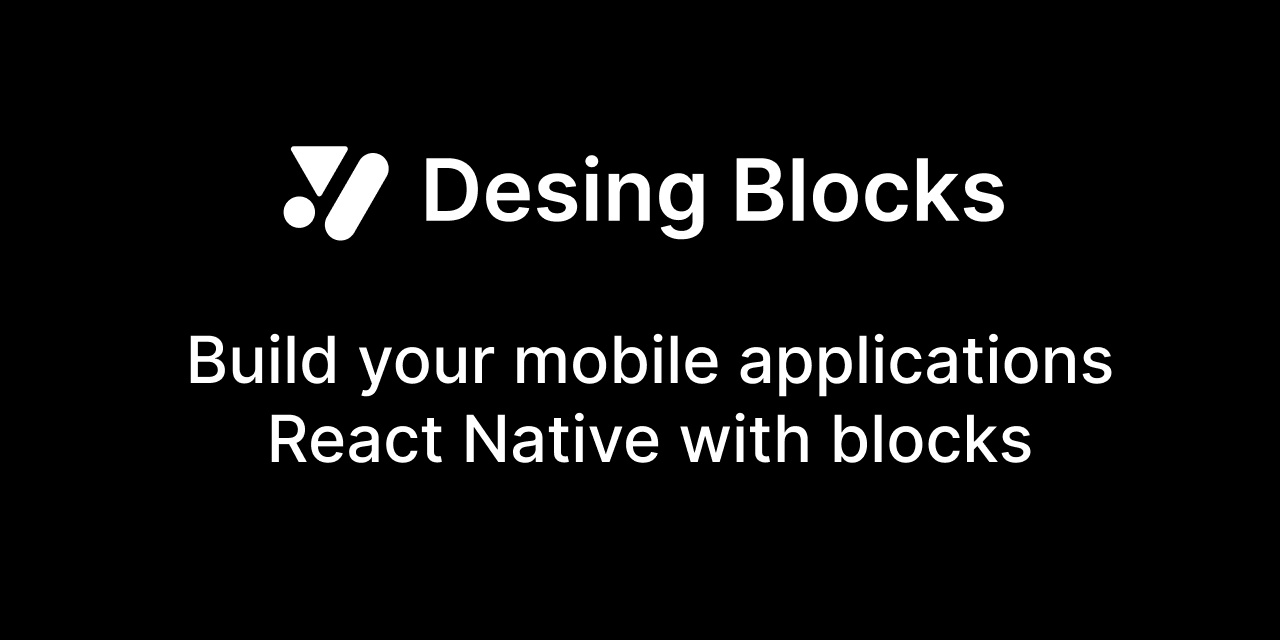
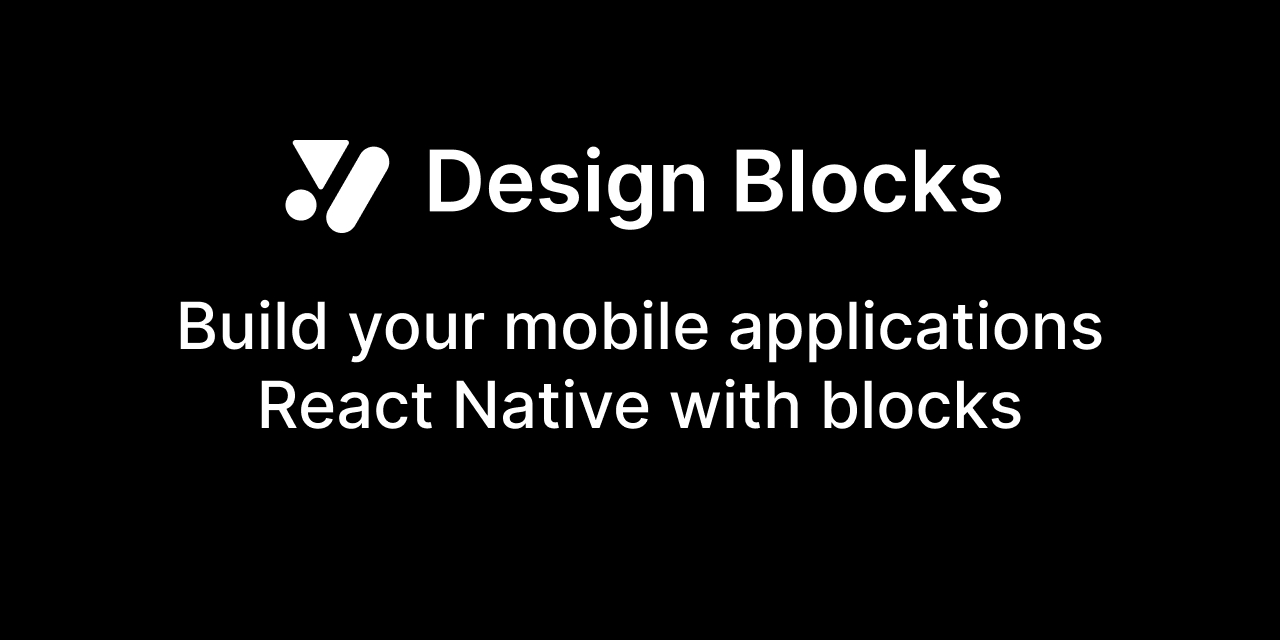
fix: responsive

Changed region(s): [[0.125, 0.4688, 0.875, 0.7188], [0.2188, 0.2188, 0.7812, 0.375]]

diff --git a/src/@design-system/DB.tsx b/src/@design-system/DB.tsx
@@ -2,8 +2,8 @@ import * as React from "react";
 
 import type { IconProps } from "./icons/types";
 
-function IconDb({ color = "#ffff", size = 2960, ...props }: IconProps) {
-  const originalWidth = 2960;
+function IconDb({ color = "#ffff", size = 2978, ...props }: IconProps) {
+  const originalWidth = 2978;
   const originalHeight = 502;
   const aspectRatio = originalHeight / originalWidth;
 
@@ -14,13 +14,13 @@ function IconDb({ color = "#ffff", size = 2960, ...props }: IconProps) {
     <svg
       width={width}
       height={height}
-      viewBox="0 0 2960 502"
+      viewBox="0 0 2978 502"
       fill="none"
       xmlns="http://www.w3.org/2000/svg"
       {...props}
     >
       <path
-        d="M57.987 111.568c-4.284-7.421 1.071-16.696 9.64-16.696h209.655c8.568 0 13.923 9.275 9.639 16.696L182.094 293.134c-4.285 7.421-14.995 7.421-19.279 0L57.987 111.568zM154.784 363.116c0 35.347-28.654 64.001-64 64.001-35.347 0-64.001-28.654-64.001-64.001 0-35.346 28.654-64 64-64 35.347 0 64.001 28.654 64.001 64zM226.905 470c-30.611-17.673-41.099-56.816-23.425-87.427l131.855-228.38c17.674-30.611 56.816-41.099 87.427-23.426 30.611 17.673 41.099 56.815 23.425 87.426L314.332 446.574c-17.674 30.611-56.816 41.099-87.427 23.426zM2955.78 257.553l-41.01 4.474c-1.16-4.143-3.19-8.037-6.09-11.683-2.82-3.646-6.63-6.588-11.44-8.825-4.8-2.237-10.68-3.356-17.64-3.356-9.37 0-17.24 2.03-23.62 6.091-6.3 4.06-9.4 9.321-9.32 15.784-.08 5.552 1.95 10.068 6.09 13.548 4.22 3.48 11.18 6.339 20.88 8.576l32.56 6.96c18.07 3.895 31.49 10.068 40.27 18.519 8.87 8.452 13.34 19.514 13.43 33.186-.09 12.014-3.61 22.62-10.57 31.818-6.88 9.114-16.45 16.24-28.71 21.378-12.26 5.137-26.35 7.706-42.26 7.706-23.36 0-42.17-4.889-56.43-14.667-14.25-9.86-22.74-23.573-25.47-41.139l43.87-4.226c1.99 8.617 6.21 15.122 12.68 19.513 6.46 4.392 14.87 6.588 25.23 6.588 10.69 0 19.26-2.196 25.73-6.588 6.54-4.391 9.81-9.819 9.81-16.282 0-5.469-2.11-9.984-6.33-13.547-4.15-3.563-10.61-6.298-19.39-8.203l-32.57-6.836c-18.31-3.812-31.86-10.234-40.64-19.265-8.78-9.115-13.13-20.632-13.05-34.553-.08-11.766 3.11-21.958 9.57-30.575 6.55-8.7 15.62-15.412 27.22-20.135 11.68-4.806 25.15-7.209 40.39-7.209 22.38 0 39.98 4.765 52.83 14.293 12.92 9.529 20.92 22.414 23.98 38.655zM2646.65 338.092l-.13-54.314h7.21l68.61-76.687h52.57l-84.39 93.963h-9.32l-34.55 37.038zM2605.63 398V143.455h44.99V398h-44.99zm119.81 0l-62.14-86.879 30.33-31.693L2779.26 398h-53.82zM2486.9 401.729c-19.06 0-35.42-4.185-49.09-12.554-13.59-8.368-24.07-19.927-31.45-34.676-7.29-14.832-10.94-31.901-10.94-51.208 0-19.389 3.73-36.5 11.19-51.331 7.46-14.915 17.98-26.516 31.57-34.802 13.67-8.368 29.83-12.553 48.47-12.553 15.5 0 29.21 2.859 41.14 8.576 12.02 5.635 21.59 13.631 28.71 23.988 7.13 10.275 11.19 22.289 12.18 36.044h-43c-1.74-9.197-5.88-16.862-12.43-22.994-6.46-6.214-15.12-9.321-25.98-9.321-9.19 0-17.27 2.485-24.23 7.457-6.96 4.889-12.39 11.932-16.28 21.129-3.82 9.198-5.72 20.218-5.72 33.061 0 13.009 1.9 24.196 5.72 33.559 3.81 9.28 9.15 16.447 16.03 21.502 6.96 4.971 15.12 7.457 24.48 7.457 6.63 0 12.56-1.243 17.78-3.729 5.3-2.568 9.73-6.255 13.3-11.061 3.56-4.806 6-10.648 7.33-17.525h43c-1.07 13.506-5.05 25.479-11.93 35.92-6.87 10.357-16.24 18.477-28.09 24.36-11.85 5.801-25.77 8.701-41.76 8.701zM2273.96 401.729c-18.64 0-34.8-4.102-48.47-12.305-13.67-8.203-24.28-19.679-31.82-34.428-7.46-14.749-11.19-31.984-11.19-51.705 0-19.72 3.73-36.997 11.19-51.829 7.54-14.832 18.15-26.349 31.82-34.552 13.67-8.203 29.83-12.305 48.47-12.305 18.65 0 34.8 4.102 48.48 12.305 13.67 8.203 24.23 19.72 31.69 34.552 7.54 14.832 11.31 32.109 11.31 51.829 0 19.721-3.77 36.956-11.31 51.705-7.46 14.749-18.02 26.225-31.69 34.428-13.68 8.203-29.83 12.305-48.48 12.305zm.25-36.044c10.11 0 18.56-2.776 25.36-8.328 6.79-5.634 11.84-13.174 15.16-22.621 3.4-9.446 5.1-19.969 5.1-31.569 0-11.683-1.7-22.248-5.1-31.694-3.32-9.529-8.37-17.111-15.16-22.745-6.8-5.635-15.25-8.452-25.36-8.452-10.36 0-18.97 2.817-25.85 8.452-6.8 5.634-11.89 13.216-15.29 22.745-3.31 9.446-4.97 20.011-4.97 31.694 0 11.6 1.66 22.123 4.97 31.569 3.4 9.447 8.49 16.987 15.29 22.621 6.88 5.552 15.49 8.328 25.85 8.328zM2144.42 143.455V398h-44.99V143.455h44.99zM1871.39 398V143.455h97.44c18.4 0 33.68 2.9 45.86 8.7 12.27 5.717 21.42 13.547 27.47 23.491 6.13 9.943 9.2 21.212 9.2 33.806 0 10.358-1.99 19.224-5.97 26.598-3.97 7.292-9.32 13.217-16.03 17.774-6.71 4.557-14.21 7.83-22.5 9.819v2.486c9.04.497 17.69 3.273 25.98 8.327 8.37 4.972 15.2 12.015 20.51 21.129 5.3 9.115 7.95 20.135 7.95 33.061 0 13.175-3.19 25.024-9.57 35.547-6.38 10.441-15.99 18.685-28.83 24.734-12.85 6.049-29 9.073-48.48 9.073h-103.03zm46.11-38.53h49.59c16.74 0 28.79-3.19 36.17-9.57 7.46-6.463 11.19-14.749 11.19-24.858 0-7.54-1.87-14.335-5.6-20.384-3.73-6.131-9.03-10.937-15.91-14.417-6.87-3.563-15.08-5.345-24.61-5.345h-50.83v74.574zm0-107.759h45.61c7.96 0 15.13-1.45 21.51-4.35 6.38-2.983 11.39-7.168 15.03-12.553 3.73-5.469 5.6-11.932 5.6-19.39 0-9.86-3.48-17.98-10.44-24.36-6.88-6.381-17.11-9.571-30.7-9.571h-46.61v70.224zM1646.86 473.568c-16.16 0-30.04-2.196-41.64-6.587-11.6-4.309-20.92-10.109-27.96-17.401-7.05-7.291-11.94-15.37-14.67-24.236l40.52-9.819c1.82 3.729 4.47 7.416 7.95 11.062 3.48 3.728 8.16 6.794 14.05 9.197 5.96 2.486 13.46 3.729 22.49 3.729 12.76 0 23.33-3.107 31.7-9.322 8.37-6.132 12.55-16.24 12.55-30.327v-36.168h-2.24c-2.32 4.64-5.71 9.405-10.19 14.293-4.39 4.889-10.23 8.991-17.52 12.305-7.21 3.314-16.28 4.972-27.22 4.972-14.67 0-27.97-3.439-39.9-10.316-11.85-6.961-21.29-17.318-28.34-31.073-6.96-13.837-10.44-31.155-10.44-51.953 0-20.964 3.48-38.654 10.44-53.072 7.05-14.5 16.53-25.479 28.47-32.937 11.93-7.54 25.23-11.31 39.89-11.31 11.19 0 20.39 1.906 27.59 5.717 7.3 3.729 13.1 8.245 17.4 13.548 4.31 5.22 7.59 10.15 9.82 14.79h2.49v-31.569h44.37v194.016c0 16.324-3.89 29.83-11.68 40.519-7.79 10.689-18.44 18.685-31.94 23.988-13.51 5.303-28.84 7.954-45.99 7.954zm.37-113.601c9.53 0 17.65-2.32 24.36-6.96 6.71-4.64 11.81-11.31 15.29-20.011 3.48-8.7 5.22-19.14 5.22-31.321 0-12.014-1.74-22.537-5.22-31.569-3.4-9.032-8.45-16.034-15.16-21.005-6.63-5.055-14.79-7.582-24.49-7.582-10.02 0-18.39 2.61-25.11 7.83-6.71 5.221-11.76 12.388-15.16 21.503-3.4 9.031-5.09 19.306-5.09 30.823 0 11.684 1.69 21.917 5.09 30.7 3.48 8.7 8.58 15.495 15.29 20.383 6.79 4.806 15.12 7.209 24.98 7.209zM1395.54 286.139V398h-44.99V207.091h43.01v32.44h2.23c4.39-10.689 11.4-19.183 21.01-25.48 9.69-6.297 21.67-9.446 35.92-9.446 13.17 0 24.65 2.817 34.43 8.452 9.86 5.634 17.48 13.796 22.87 24.485 5.46 10.689 8.16 23.656 8.07 38.903V398h-44.99V283.405c0-12.761-3.31-22.745-9.94-29.954-6.55-7.209-15.62-10.813-27.22-10.813-7.87 0-14.88 1.74-21.01 5.22-6.05 3.397-10.81 8.327-14.29 14.79-3.4 6.463-5.1 14.294-5.1 23.491zM1259.29 398V207.091h44.99V398h-44.99zm22.62-218.004c-7.12 0-13.26-2.362-18.39-7.085-5.14-4.806-7.71-10.564-7.71-17.276 0-6.795 2.57-12.553 7.71-17.276 5.13-4.806 11.27-7.209 18.39-7.209 7.21 0 13.34 2.403 18.4 7.209 5.13 4.723 7.7 10.481 7.7 17.276 0 6.712-2.57 12.47-7.7 17.276-5.06 4.723-11.19 7.085-18.4 7.085zM1218.09 257.553l-41.02 4.474c-1.16-4.143-3.19-8.037-6.09-11.683-2.81-3.646-6.63-6.588-11.43-8.825-4.81-2.237-10.69-3.356-17.65-3.356-9.36 0-17.24 2.03-23.62 6.091-6.29 4.06-9.4 9.321-9.32 15.784-.08 5.552 1.95 10.068 6.09 13.548 4.23 3.48 11.19 6.339 20.88 8.576l32.57 6.96c18.06 3.895 31.48 10.068 40.27 18.519 8.86 8.452 13.34 19.514 13.42 33.186-.08 12.014-3.6 22.62-10.56 31.818-6.88 9.114-16.45 16.24-28.71 21.378-12.27 5.137-26.35 7.706-42.26 7.706-23.37 0-42.18-4.889-56.43-14.667-14.25-9.86-22.75-23.573-25.48-41.139l43.87-4.226c1.99 8.617 6.22 15.122 12.68 19.513 6.46 4.392 14.88 6.588 25.23 6.588 10.69 0 19.27-2.196 25.73-6.588 6.55-4.391 9.82-9.819 9.82-16.282 0-5.469-2.11-9.984-6.34-13.547-4.14-3.563-10.61-6.298-19.39-8.203l-32.56-6.836c-18.31-3.812-31.86-10.234-40.65-19.265-8.78-9.115-13.13-20.632-13.05-34.553-.08-11.766 3.11-21.958 9.57-30.575 6.55-8.7 15.62-15.412 27.22-20.135 11.69-4.806 25.15-7.209 40.4-7.209 22.37 0 39.98 4.765 52.82 14.293 12.93 9.529 20.92 22.414 23.99 38.655zM944.248 401.729c-19.141 0-35.671-3.978-49.592-11.932-13.837-8.038-24.485-19.389-31.942-34.056-7.457-14.749-11.186-32.108-11.186-52.077 0-19.638 3.729-36.873 11.186-51.704 7.54-14.915 18.063-26.516 31.57-34.802 13.506-8.368 29.373-12.553 47.603-12.553 11.766 0 22.869 1.906 33.309 5.717 10.523 3.729 19.804 9.529 27.844 17.401 8.12 7.872 14.5 17.898 19.14 30.078 4.64 12.098 6.96 26.515 6.96 43.253v13.796H872.657v-30.327h113.352c-.082-8.617-1.947-16.282-5.593-22.993-3.645-6.795-8.741-12.139-15.287-16.034-6.463-3.894-14.004-5.841-22.621-5.841-9.197 0-17.276 2.237-24.237 6.711-6.96 4.392-12.387 10.192-16.281 17.401-3.812 7.126-5.759 14.956-5.842 23.491v26.474c0 11.103 2.03 20.632 6.09 28.586 4.06 7.872 9.736 13.921 17.028 18.146 7.291 4.143 15.826 6.215 25.603 6.215 6.546 0 12.471-.911 17.774-2.734 5.303-1.906 9.902-4.682 13.796-8.328 3.894-3.646 6.836-8.162 8.825-13.547l42.006 4.723c-2.65 11.103-7.7 20.797-15.16 29.083-7.37 8.204-16.82 14.584-28.338 19.141-11.517 4.474-24.692 6.712-39.524 6.712zM694.364 398h-86.258V143.455h87.998c25.272 0 46.981 5.095 65.127 15.287 18.23 10.109 32.233 24.651 42.01 43.626 9.778 18.975 14.667 41.678 14.667 68.111 0 26.515-4.931 49.301-14.791 68.359-9.777 19.058-23.905 33.683-42.383 43.874C742.339 392.904 720.216 398 694.364 398zm-40.146-39.897h37.908c17.732 0 32.523-3.231 44.372-9.695 11.849-6.545 20.756-16.282 26.722-29.208 5.966-13.009 8.949-29.249 8.949-48.721 0-19.472-2.983-35.63-8.949-48.473-5.966-12.926-14.79-22.58-26.474-28.96-11.6-6.463-26.018-9.694-43.252-9.694h-39.276v174.751z"
+        d="M57.987 111.568c-4.284-7.421 1.071-16.696 9.64-16.696h209.655c8.568 0 13.923 9.275 9.639 16.696L182.094 293.134c-4.285 7.421-14.995 7.421-19.279 0L57.987 111.568zM154.784 363.116c0 35.347-28.654 64.001-64 64.001-35.347 0-64.001-28.654-64.001-64.001 0-35.346 28.654-64 64-64 35.347 0 64.001 28.654 64.001 64zM226.905 470c-30.611-17.673-41.099-56.816-23.425-87.427l131.855-228.38c17.674-30.611 56.816-41.099 87.427-23.426 30.611 17.673 41.099 56.815 23.425 87.426L314.332 446.574c-17.674 30.611-56.816 41.099-87.427 23.426zM2973.67 248.617l-41.09 4.482c-1.16-4.15-3.19-8.051-6.1-11.703-2.82-3.652-6.64-6.598-11.45-8.839-4.82-2.241-10.71-3.362-17.68-3.362-9.38 0-17.27 2.034-23.66 6.101-6.31 4.067-9.42 9.337-9.33 15.811-.09 5.562 1.95 10.085 6.1 13.571 4.23 3.486 11.2 6.35 20.91 8.591l32.62 6.972c18.1 3.901 31.54 10.084 40.34 18.55 8.88 8.466 13.36 19.547 13.45 33.242-.09 12.035-3.62 22.659-10.59 31.872-6.89 9.13-16.47 16.268-28.76 21.414-12.28 5.146-26.39 7.72-42.33 7.72-23.4 0-42.24-4.898-56.52-14.692-14.28-9.877-22.78-23.613-25.52-41.209l43.95-4.233c1.99 8.632 6.22 15.147 12.69 19.546 6.48 4.399 14.9 6.599 25.28 6.599 10.71 0 19.3-2.2 25.77-6.599 6.56-4.399 9.84-9.835 9.84-16.309 0-5.478-2.12-10.002-6.35-13.571-4.15-3.569-10.63-6.308-19.43-8.217l-32.62-6.848c-18.34-3.818-31.91-10.25-40.71-19.297-8.8-9.13-13.15-20.667-13.07-34.611-.08-11.787 3.11-21.996 9.59-30.628 6.55-8.715 15.64-15.438 27.26-20.169 11.71-4.814 25.19-7.221 40.47-7.221 22.41 0 40.04 4.773 52.91 14.318 12.95 9.545 20.96 22.451 24.03 38.719zM2664 329.294l-.12-54.407h7.22l68.72-76.817h52.67l-84.54 94.123h-9.34L2664 329.294zm-41.08 60.009V134.326h45.07v254.977h-45.07zm120.02 0l-62.26-87.026 30.38-31.747 85.78 118.773h-53.9zM2503.99 393.039c-19.09 0-35.49-4.192-49.18-12.575-13.61-8.383-24.11-19.962-31.5-34.736-7.3-14.857-10.96-31.955-10.96-51.294 0-19.422 3.74-36.562 11.21-51.419 7.47-14.94 18.01-26.56 31.62-34.86 13.7-8.383 29.88-12.575 48.56-12.575 15.52 0 29.26 2.864 41.21 8.591 12.03 5.644 21.62 13.653 28.76 24.028 7.14 10.292 11.2 22.327 12.2 36.106h-43.08c-1.74-9.213-5.89-16.891-12.45-23.033-6.47-6.225-15.15-9.338-26.02-9.338-9.21 0-17.31 2.49-24.28 7.47-6.97 4.897-12.41 11.952-16.31 21.166-3.82 9.213-5.72 20.252-5.72 33.117 0 13.031 1.9 24.236 5.72 33.615 3.82 9.296 9.17 16.476 16.06 21.539 6.98 4.98 15.15 7.47 24.53 7.47 6.64 0 12.57-1.245 17.8-3.735 5.32-2.573 9.76-6.267 13.33-11.081 3.56-4.814 6.01-10.665 7.34-17.554h43.08c-1.08 13.529-5.06 25.522-11.95 35.98-6.89 10.375-16.27 18.509-28.14 24.402-11.87 5.81-25.81 8.716-41.83 8.716zM2290.69 393.039c-18.68 0-34.86-4.109-48.56-12.326-13.69-8.217-24.32-19.713-31.87-34.487-7.47-14.774-11.21-32.038-11.21-51.792 0-19.754 3.74-37.06 11.21-51.917 7.55-14.857 18.18-26.394 31.87-34.611 13.7-8.217 29.88-12.326 48.56-12.326 18.67 0 34.86 4.109 48.55 12.326 13.7 8.217 24.28 19.754 31.75 34.611 7.55 14.857 11.33 32.163 11.33 51.917 0 19.754-3.78 37.018-11.33 51.792-7.47 14.774-18.05 26.27-31.75 34.487-13.69 8.217-29.88 12.326-48.55 12.326zm.24-36.106c10.13 0 18.6-2.78 25.4-8.341 6.81-5.644 11.87-13.197 15.19-22.659 3.4-9.463 5.11-20.004 5.11-31.624 0-11.703-1.71-22.285-5.11-31.747-3.32-9.546-8.38-17.14-15.19-22.784-6.8-5.644-15.27-8.466-25.4-8.466-10.37 0-19 2.822-25.89 8.466-6.81 5.644-11.91 13.238-15.32 22.784-3.32 9.462-4.98 20.044-4.98 31.747 0 11.62 1.66 22.161 4.98 31.624 3.41 9.462 8.51 17.015 15.32 22.659 6.89 5.561 15.52 8.341 25.89 8.341zM2160.92 134.326v254.977h-45.06V134.326h45.06zM1887.43 389.303V134.326h97.61c18.42 0 33.74 2.905 45.94 8.715 12.28 5.727 21.45 13.57 27.51 23.53 6.14 9.96 9.21 21.248 9.21 33.865 0 10.375-1.99 19.256-5.97 26.643-3.99 7.304-9.34 13.238-16.06 17.803-6.73 4.565-14.24 7.844-22.54 9.836v2.49c9.05.498 17.72 3.278 26.02 8.342 8.39 4.98 15.23 12.035 20.55 21.165 5.31 9.13 7.96 20.169 7.96 33.117 0 13.197-3.19 25.066-9.58 35.607-6.39 10.458-16.02 18.717-28.89 24.776-12.86 6.059-29.05 9.088-48.55 9.088h-103.21zm46.19-38.595h49.67c16.77 0 28.85-3.195 36.23-9.586 7.47-6.474 11.21-14.775 11.21-24.901 0-7.553-1.87-14.359-5.6-20.418-3.74-6.142-9.05-10.956-15.94-14.442-6.89-3.569-15.11-5.353-24.65-5.353h-50.92v74.7zm0-107.942h45.69c7.97 0 15.15-1.453 21.54-4.358 6.39-2.988 11.41-7.179 15.06-12.574 3.74-5.478 5.6-11.952 5.6-19.422 0-9.877-3.48-18.012-10.45-24.403-6.89-6.391-17.14-9.586-30.76-9.586h-46.68v70.343zM1629.9 277.253v112.05h-45.07V198.07h43.07v32.495h2.25c4.4-10.707 11.41-19.215 21.04-25.523 9.71-6.308 21.7-9.462 35.98-9.462 13.19 0 24.69 2.822 34.48 8.466 9.88 5.644 17.52 13.82 22.91 24.527 5.48 10.707 8.18 23.696 8.09 38.969v121.761h-45.06V274.514c0-12.782-3.32-22.784-9.96-30.005-6.56-7.221-15.65-10.832-27.27-10.832-7.89 0-14.9 1.743-21.04 5.229-6.06 3.403-10.83 8.342-14.32 14.816-3.4 6.474-5.1 14.318-5.1 23.531zM1448.87 465c-16.18 0-30.09-2.199-41.71-6.599-11.62-4.316-20.95-10.126-28.01-17.43-7.05-7.304-11.95-15.396-14.69-24.277l40.59-9.836c1.82 3.735 4.48 7.429 7.97 11.081 3.48 3.735 8.17 6.806 14.07 9.213 5.97 2.49 13.48 3.735 22.53 3.735 12.78 0 23.36-3.113 31.75-9.338 8.38-6.142 12.57-16.268 12.57-30.378v-36.23h-2.24c-2.32 4.648-5.73 9.421-10.21 14.318-4.4 4.897-10.25 9.005-17.55 12.325-7.22 3.32-16.31 4.98-27.27 4.98-14.69 0-28.01-3.444-39.96-10.333-11.87-6.972-21.33-17.347-28.39-31.125-6.97-13.861-10.46-31.209-10.46-52.042 0-20.999 3.49-38.719 10.46-53.162 7.06-14.525 16.56-25.522 28.51-32.992 11.95-7.553 25.28-11.33 39.97-11.33 11.2 0 20.41 1.909 27.64 5.727 7.3 3.735 13.11 8.259 17.43 13.571 4.31 5.229 7.59 10.167 9.83 14.815h2.49V198.07h44.45v194.346c0 16.351-3.9 29.88-11.71 40.587-7.8 10.707-18.46 18.717-31.99 24.029-13.53 5.312-28.89 7.968-46.07 7.968zm.38-113.794c9.54 0 17.68-2.324 24.4-6.972 6.72-4.648 11.83-11.329 15.31-20.044 3.49-8.716 5.23-19.174 5.23-31.375 0-12.035-1.74-22.576-5.23-31.623-3.4-9.047-8.46-16.061-15.19-21.041-6.64-5.063-14.81-7.594-24.52-7.594-10.05 0-18.43 2.614-25.15 7.843-6.73 5.229-11.79 12.409-15.19 21.539-3.41 9.047-5.11 19.339-5.11 30.876 0 11.703 1.7 21.954 5.11 30.752 3.48 8.715 8.59 15.521 15.31 20.418 6.81 4.814 15.15 7.221 25.03 7.221zM1274.29 389.303V198.07h45.07v191.233h-45.07zm22.66-218.374c-7.14 0-13.28-2.366-18.43-7.097-5.14-4.814-7.71-10.582-7.71-17.305 0-6.806 2.57-12.575 7.71-17.306 5.15-4.814 11.29-7.221 18.43-7.221 7.22 0 13.36 2.407 18.43 7.221 5.14 4.731 7.72 10.5 7.72 17.306 0 6.723-2.58 12.491-7.72 17.305-5.07 4.731-11.21 7.097-18.43 7.097zM1233.02 248.617l-41.09 4.482c-1.16-4.15-3.19-8.051-6.1-11.703-2.82-3.652-6.64-6.598-11.45-8.839-4.81-2.241-10.71-3.362-17.68-3.362-9.38 0-17.26 2.034-23.65 6.101-6.31 4.067-9.43 9.337-9.34 15.811-.09 5.562 1.95 10.085 6.1 13.571 4.23 3.486 11.2 6.35 20.91 8.591l32.62 6.972c18.1 3.901 31.54 10.084 40.34 18.55 8.88 8.466 13.36 19.547 13.45 33.242-.09 12.035-3.61 22.659-10.58 31.872-6.89 9.13-16.48 16.268-28.76 21.414-12.29 5.146-26.4 7.72-42.33 7.72-23.41 0-42.25-4.898-56.53-14.692-14.27-9.877-22.78-23.613-25.52-41.209l43.95-4.233c1.99 8.632 6.22 15.147 12.7 19.546 6.47 4.399 14.9 6.599 25.27 6.599 10.71 0 19.3-2.2 25.77-6.599 6.56-4.399 9.84-9.835 9.84-16.309 0-5.478-2.12-10.002-6.35-13.571-4.15-3.569-10.63-6.308-19.42-8.217l-32.62-6.848c-18.35-3.818-31.92-10.25-40.71-19.297-8.8-9.13-13.16-20.667-13.08-34.611-.08-11.787 3.12-21.996 9.59-30.628 6.56-8.715 15.64-15.438 27.26-20.169 11.71-4.814 25.2-7.221 40.47-7.221 22.41 0 40.05 4.773 52.91 14.318 12.95 9.545 20.96 22.451 24.03 38.719zM958.713 393.039c-19.173 0-35.732-3.985-49.676-11.953-13.861-8.051-24.527-19.422-31.997-34.113-7.47-14.774-11.205-32.163-11.205-52.166 0-19.671 3.735-36.935 11.205-51.792 7.553-14.94 18.094-26.56 31.623-34.86 13.529-8.383 29.424-12.575 47.684-12.575 11.786 0 22.908 1.909 33.366 5.727 10.537 3.735 19.837 9.545 27.887 17.43 8.14 7.885 14.53 17.928 19.17 30.129 4.65 12.119 6.98 26.561 6.98 43.327v13.819H887v-30.378h113.54c-.08-8.632-1.946-16.309-5.598-23.033-3.652-6.806-8.756-12.159-15.313-16.06-6.474-3.901-14.027-5.852-22.659-5.852-9.213 0-17.306 2.241-24.278 6.723-6.972 4.399-12.409 10.209-16.31 17.431-3.818 7.138-5.768 14.981-5.851 23.53v26.519c0 11.122 2.033 20.667 6.1 28.635 4.067 7.885 9.753 13.944 17.057 18.177 7.304 4.15 15.853 6.225 25.647 6.225 6.557 0 12.492-.913 17.804-2.739 5.312-1.909 9.918-4.689 13.819-8.341 3.901-3.652 6.848-8.176 8.84-13.571l42.082 4.731c-2.66 11.122-7.72 20.833-15.19 29.133-7.39 8.217-16.85 14.608-28.386 19.173-11.537 4.482-24.734 6.724-39.591 6.724zM708.404 389.303H622V134.326h88.147c25.315 0 47.061 5.104 65.238 15.313 18.26 10.126 32.287 24.693 42.081 43.7 9.794 19.007 14.692 41.749 14.692 68.226 0 26.561-4.939 49.386-14.816 68.476-9.794 19.09-23.946 33.74-42.455 43.949-18.426 10.209-40.587 15.313-66.483 15.313zm-40.214-39.964h37.973c17.762 0 32.577-3.237 44.446-9.711 11.87-6.557 20.792-16.31 26.768-29.258 5.976-13.031 8.964-29.299 8.964-48.805 0-19.505-2.988-35.69-8.964-48.555-5.976-12.948-14.815-22.618-26.519-29.009-11.62-6.474-26.062-9.711-43.326-9.711H668.19v175.049z"
         fill="#fff"
       />
     </svg>
